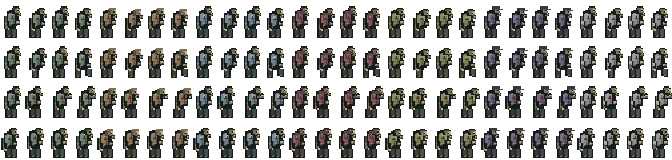
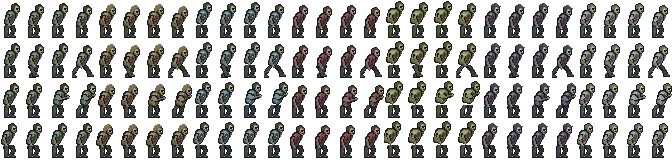
Redraw infected using isometric sprite references

diff --git a/docs/micro-pixel-slice/README.md b/docs/micro-pixel-slice/README.md
@@ -33,6 +33,16 @@ phase selects the outfit, travel distance advances the walk cycle, and the
 existing combat timers select attack and hit poses. Left-facing sprites use
 the cached mirror of the atlas.
 
+The redraw uses three-quarter silhouettes, staggered footsteps and stronger
+attack anticipation. Visual references were
+[Clint Bellanger’s Zombie Sprites](https://opengameart.org/content/zombie-sprites)
+for the lurch and attack poses,
+[Pixor’s zombie](https://pixor.art/library/dungeon/zombie/) for the
+three-quarter lighting and selective outlines, and
+[Curt’s Zombie RPG sprites](https://opengameart.org/content/zombie-rpg-sprites)
+for readable body-type differences. The game atlas is original artwork
+drawn from native pixel shapes in Godot.
+
 To rebuild from the Godot pixel-art source, run this from the repository root:
 
 ```sh
